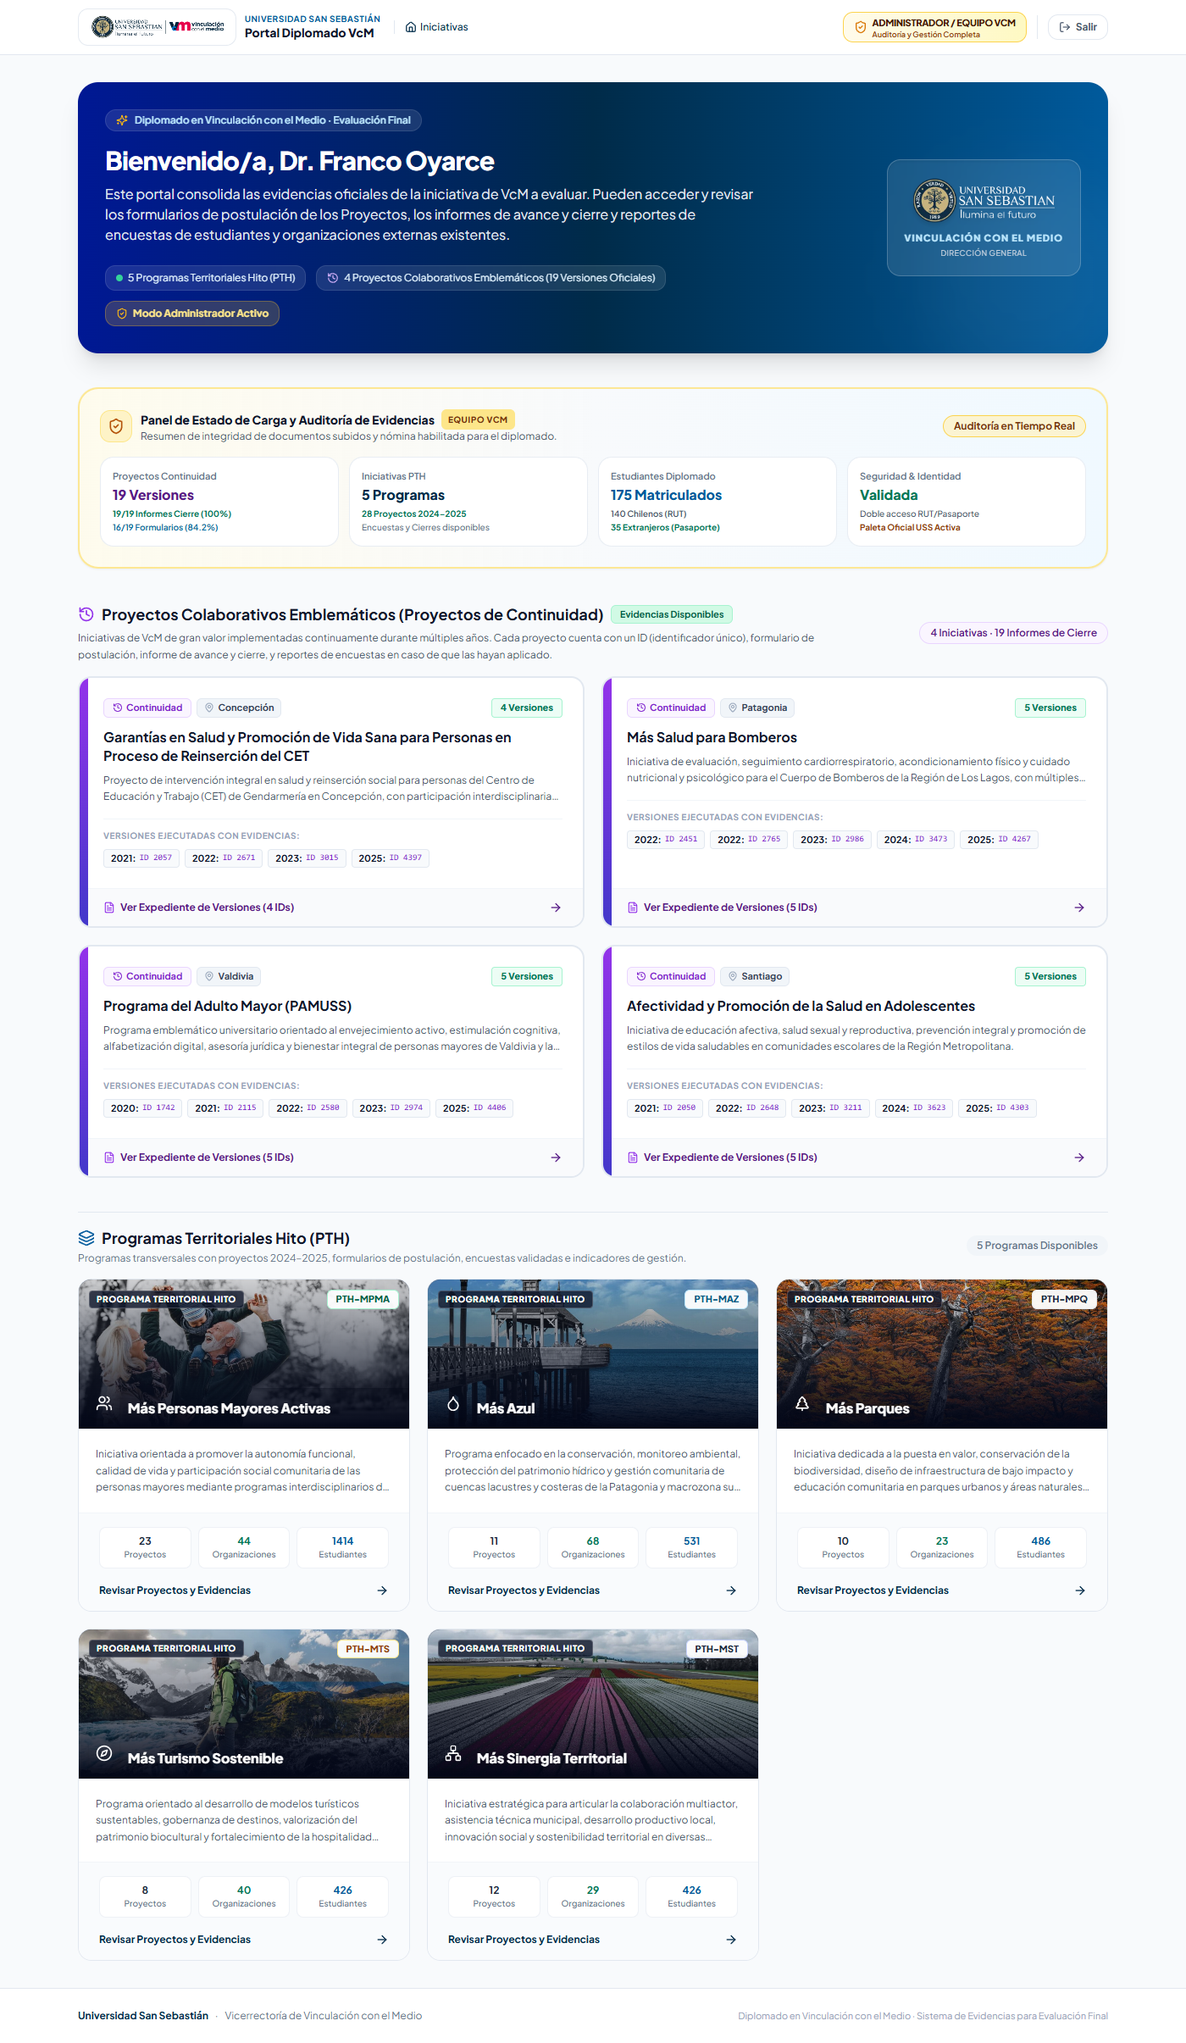
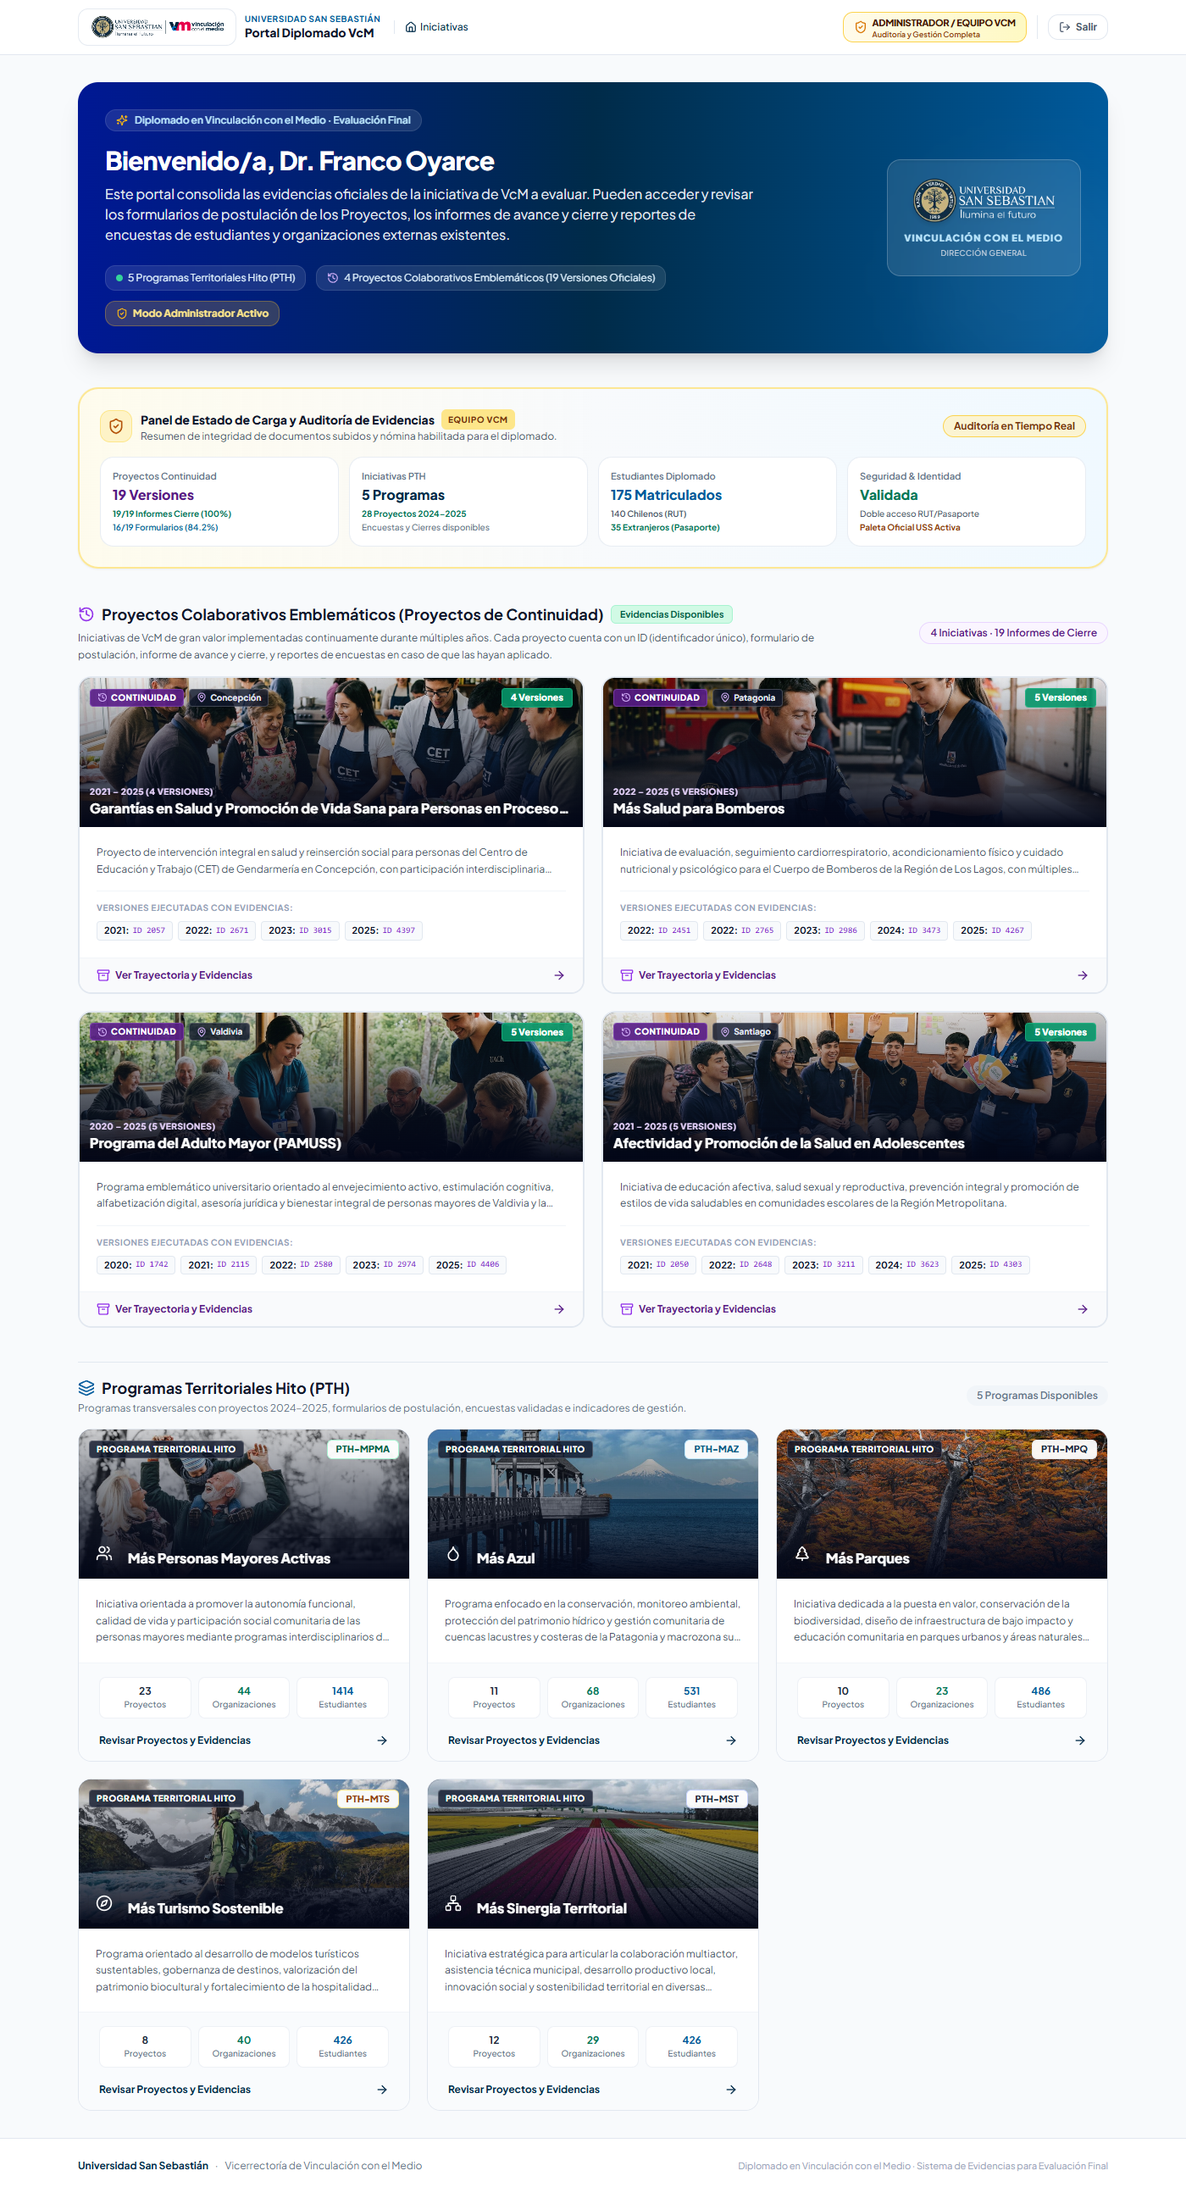
feat: imagenes de portada y cabecera visual para proyectos de continuidad y actualizacion de diseno

diff --git a/src/components/ContinuityProjectDetail.jsx b/src/components/ContinuityProjectDetail.jsx
@@ -26,6 +26,13 @@ import * as XLSX from 'xlsx';
 import JSZip from 'jszip';
 import { getAssetUrl } from '../utils/assetHelper';
 
+const continuityImageMap = {
+  'pc-garantias-salud-reinsercion': 'imagenes/continuidad/garantias-salud-reinsercion-cet.jpg',
+  'pc-mas-salud-bomberos': 'imagenes/continuidad/mas-salud-bomberos.jpg',
+  'pc-programa-adulto-mayor': 'imagenes/continuidad/programa-adulto-mayor-pamuss.jpg',
+  'pc-afectividad-salud-adolescentes': 'imagenes/continuidad/afectividad-salud-adolescentes.jpg'
+};
+
 export default function ContinuityProjectDetail({ project, onBack, onOpenDocument }) {
   const [sortOrder, setSortOrder] = useState('desc'); // 'desc' (más reciente primero) o 'asc'
   const [isZipping, setIsZipping] = useState(false);
@@ -198,51 +205,61 @@ export default function ContinuityProjectDetail({ project, onBack, onOpenDocumen
         </button>
       </div>
 
-      {/* Cabecera Principal del Proyecto de Continuidad */}
-      <div className="bg-white rounded-3xl p-6 sm:p-8 border-2 border-slate-200 shadow-sm relative overflow-hidden">
-        <div className="flex flex-col lg:flex-row lg:items-start justify-between gap-6">
+      {/* Cabecera Principal del Proyecto de Continuidad con Fotografía */}
+      <div className="rounded-3xl p-6 sm:p-8 border border-purple-900/60 shadow-lg relative overflow-hidden bg-slate-900 text-white">
+        {/* Fotografía de Fondo con Overlay */}
+        <div className="absolute inset-0 z-0">
+          <img 
+            src={getAssetUrl(continuityImageMap[project.id] || 'imagenes/pth/banner-pth.jpg')}
+            alt={project.nombre}
+            className="w-full h-full object-cover opacity-25"
+          />
+          <div className="absolute inset-0 bg-gradient-to-r from-slate-950 via-slate-900/95 to-slate-900/80" />
+        </div>
+
+        <div className="relative z-10 flex flex-col lg:flex-row lg:items-start justify-between gap-6">
           <div className="max-w-3xl">
             {/* Badges de clasificación */}
             <div className="flex flex-wrap items-center gap-2 mb-3">
-              <span className="text-xs font-bold px-2.5 py-1 rounded-md bg-purple-100 text-purple-800 border border-purple-200 flex items-center gap-1">
-                <History className="w-3.5 h-3.5" />
+              <span className="text-xs font-bold px-2.5 py-1 rounded-md bg-purple-900/90 text-purple-200 border border-purple-400/40 flex items-center gap-1 backdrop-blur-xs">
+                <History className="w-3.5 h-3.5 text-purple-300" />
                 Proyecto de Continuidad
               </span>
-              <span className="text-xs font-bold px-2.5 py-1 rounded-md bg-slate-100 text-slate-700 border border-slate-200 flex items-center gap-1">
-                <MapPin className="w-3.5 h-3.5 text-slate-500" />
+              <span className="text-xs font-bold px-2.5 py-1 rounded-md bg-white/10 text-slate-200 border border-white/20 flex items-center gap-1 backdrop-blur-xs">
+                <MapPin className="w-3.5 h-3.5 text-purple-300" />
                 {project.sede}
               </span>
-              <span className="text-xs font-semibold text-emerald-700 bg-emerald-50 px-2.5 py-1 rounded-md border border-emerald-200">
+              <span className="text-xs font-semibold text-emerald-300 bg-emerald-950/70 px-2.5 py-1 rounded-md border border-emerald-500/40 backdrop-blur-xs">
                 {project.totalVersiones} Versiones Ejecutadas
               </span>
-              <div className="hidden sm:inline-flex items-center gap-1.5 ml-2 px-2 py-0.5 rounded-lg bg-slate-50 border border-slate-200">
+              <div className="hidden sm:inline-flex items-center gap-1.5 ml-2 px-2.5 py-0.5 rounded-lg bg-white/10 backdrop-blur-xs border border-white/20">
                 <img 
                   src={getAssetUrl('logos/logo-vcm-uss.png')} 
                   alt="USS VcM" 
-                  className="h-4 w-auto object-contain" 
+                  className="h-4 w-auto object-contain brightness-0 invert" 
                 />
               </div>
             </div>
 
             {/* Título limpio sin sede */}
-            <h1 className="text-xl sm:text-2xl lg:text-3xl font-extrabold text-slate-900 tracking-tight leading-snug">
+            <h1 className="text-xl sm:text-2xl lg:text-3xl font-extrabold text-white tracking-tight leading-snug">
               {project.nombre}
             </h1>
 
-            <p className="mt-3 text-xs sm:text-sm text-slate-600 leading-relaxed">
+            <p className="mt-3 text-xs sm:text-sm text-slate-300 leading-relaxed">
               {project.descripcion}
             </p>
 
             {/* Carreras Participantes a lo largo de los años */}
-            <div className="mt-4 pt-4 border-t border-slate-100">
-              <span className="text-xs font-bold text-slate-500 block mb-2">
+            <div className="mt-4 pt-4 border-t border-white/15">
+              <span className="text-xs font-bold text-slate-400 block mb-2">
                 Carreras y Disciplinas Participantes en su Trayectoria:
               </span>
               <div className="flex flex-wrap items-center gap-1.5">
                 {project.carrerasParticipantes.map((carrera) => (
                   <span
                     key={carrera}
-                    className="bg-slate-100 text-slate-700 text-[11px] font-medium px-2.5 py-1 rounded-lg border border-slate-200/70"
+                    className="bg-white/10 text-white text-[11px] font-medium px-2.5 py-1 rounded-lg border border-white/20 backdrop-blur-xs"
                   >
                     {carrera}
                   </span>
@@ -255,7 +272,7 @@ export default function ContinuityProjectDetail({ project, onBack, onOpenDocumen
           <div className="flex flex-col sm:flex-row lg:flex-col gap-2.5 flex-shrink-0 w-full lg:w-auto">
             <button
               onClick={handleDownloadExcel}
-              className="w-full inline-flex items-center justify-center gap-2 px-4 py-2.5 rounded-xl bg-emerald-600 hover:bg-emerald-700 text-white font-bold text-xs transition shadow-sm cursor-pointer"
+              className="w-full inline-flex items-center justify-center gap-2 px-4 py-2.5 rounded-xl bg-emerald-600 hover:bg-emerald-500 text-white font-bold text-xs transition shadow-md cursor-pointer"
               title="Descargar historial consolidado en Microsoft Excel (.xlsx)"
             >
               <FileSpreadsheet className="w-4 h-4 text-emerald-200" />
@@ -265,18 +282,18 @@ export default function ContinuityProjectDetail({ project, onBack, onOpenDocumen
             <button
               onClick={handleDownloadAllZip}
               disabled={isZipping}
-              className="w-full inline-flex items-center justify-center gap-2 px-4 py-2.5 rounded-xl bg-uss-navy hover:bg-uss-blue text-white font-bold text-xs transition shadow-sm cursor-pointer disabled:opacity-70"
+              className="w-full inline-flex items-center justify-center gap-2 px-4 py-2.5 rounded-xl bg-white/15 hover:bg-white/25 text-white font-bold text-xs transition border border-white/20 shadow-md cursor-pointer disabled:opacity-70 backdrop-blur-xs"
               title="Descargar todos los informes y formularios en un archivo ZIP"
             >
               <Archive className="w-4 h-4 text-sky-300" />
               <span>{isZipping ? 'Comprimiendo Evidencias...' : 'Descargar Expediente (ZIP)'}</span>
             </button>
 
-            <div className="p-3 bg-purple-50 rounded-xl border border-purple-200 text-center">
-              <span className="text-[11px] font-semibold text-purple-800 block">
+            <div className="p-3 bg-white/10 rounded-xl border border-white/15 text-center backdrop-blur-xs">
+              <span className="text-[11px] font-semibold text-purple-300 block">
                 Trayectoria Documentada
               </span>
-              <span className="text-xs font-extrabold text-purple-900 block mt-0.5">
+              <span className="text-xs font-extrabold text-white block mt-0.5">
                 {project.periodoTrayectoria}
               </span>
             </div>
@@ -285,10 +302,10 @@ export default function ContinuityProjectDetail({ project, onBack, onOpenDocumen
 
         {/* Tarjetas de Métricas Consolidadas Oficiales */}
         {project.totalesConsolidados && (
-          <div className="mt-8 grid grid-cols-2 sm:grid-cols-5 gap-3 border-t border-slate-100 pt-6">
-            <div className="bg-slate-50 p-3.5 rounded-2xl border border-slate-200/70">
-              <span className="text-xs font-medium text-slate-500 block">Estudiantes Únicos</span>
-              <span className="text-xl font-extrabold text-uss-blue block mt-0.5">
+          <div className="relative z-10 mt-8 grid grid-cols-2 sm:grid-cols-5 gap-3 border-t border-white/15 pt-6">
+            <div className="bg-white/10 backdrop-blur-xs p-3.5 rounded-2xl border border-white/15">
+              <span className="text-xs font-medium text-slate-300 block">Estudiantes Únicos</span>
+              <span className="text-xl font-extrabold text-sky-300 block mt-0.5">
                 {project.totalesConsolidados.totalEstudiantesUnicos}
               </span>
               <span className="text-[10px] text-slate-400 block mt-0.5">
@@ -296,9 +313,9 @@ export default function ContinuityProjectDetail({ project, onBack, onOpenDocumen
               </span>
             </div>
 
-            <div className="bg-slate-50 p-3.5 rounded-2xl border border-slate-200/70">
-              <span className="text-xs font-medium text-slate-500 block">Organizaciones</span>
-              <span className="text-xl font-extrabold text-emerald-700 block mt-0.5">
+            <div className="bg-white/10 backdrop-blur-xs p-3.5 rounded-2xl border border-white/15">
+              <span className="text-xs font-medium text-slate-300 block">Organizaciones</span>
+              <span className="text-xl font-extrabold text-emerald-300 block mt-0.5">
                 {project.totalesConsolidados.totalOrganizaciones}
               </span>
               <span className="text-[10px] text-slate-400 block mt-0.5">
@@ -306,9 +323,9 @@ export default function ContinuityProjectDetail({ project, onBack, onOpenDocumen
               </span>
             </div>
 
-            <div className="bg-slate-50 p-3.5 rounded-2xl border border-slate-200/70">
-              <span className="text-xs font-medium text-slate-500 block">Comunas Vinculadas</span>
-              <span className="text-xl font-extrabold text-indigo-700 block mt-0.5">
+            <div className="bg-white/10 backdrop-blur-xs p-3.5 rounded-2xl border border-white/15">
+              <span className="text-xs font-medium text-slate-300 block">Comunas Vinculadas</span>
+              <span className="text-xl font-extrabold text-indigo-300 block mt-0.5">
                 {project.totalesConsolidados.totalComunas}
               </span>
               <span className="text-[10px] text-slate-400 block mt-0.5 truncate" title={project.comunasParticipantes?.join(', ')}>
@@ -316,9 +333,9 @@ export default function ContinuityProjectDetail({ project, onBack, onOpenDocumen
               </span>
             </div>
 
-            <div className="bg-slate-50 p-3.5 rounded-2xl border border-slate-200/70">
-              <span className="text-xs font-medium text-slate-500 block">Académicos USS</span>
-              <span className="text-xl font-extrabold text-amber-600 block mt-0.5">
+            <div className="bg-white/10 backdrop-blur-xs p-3.5 rounded-2xl border border-white/15">
+              <span className="text-xs font-medium text-slate-300 block">Académicos USS</span>
+              <span className="text-xl font-extrabold text-amber-300 block mt-0.5">
                 {project.totalesConsolidados.totalAcademicosDistintos}
               </span>
               <span className="text-[10px] text-slate-400 block mt-0.5">
@@ -326,9 +343,9 @@ export default function ContinuityProjectDetail({ project, onBack, onOpenDocumen
               </span>
             </div>
 
-            <div className="bg-slate-50 p-3.5 rounded-2xl border border-slate-200/70 col-span-2 sm:col-span-1">
-              <span className="text-xs font-medium text-slate-500 block">PTH Vinculado</span>
-              <span className="text-xs font-extrabold text-purple-900 block mt-1 line-clamp-2">
+            <div className="bg-white/10 backdrop-blur-xs p-3.5 rounded-2xl border border-white/15 col-span-2 sm:col-span-1">
+              <span className="text-xs font-medium text-slate-300 block">PTH Vinculado</span>
+              <span className="text-xs font-extrabold text-purple-200 block mt-1 line-clamp-2">
                 {project.totalesConsolidados.pthAsociado}
               </span>
             </div>

diff --git a/src/components/PTHSelector.jsx b/src/components/PTHSelector.jsx
@@ -38,6 +38,13 @@ const pthImageMap = {
   'pth-mas-sinergia-territorial': 'imagenes/pth/mas-sinergia.jpg',
 };
 
+const continuityImageMap = {
+  'pc-garantias-salud-reinsercion': 'imagenes/continuidad/garantias-salud-reinsercion-cet.jpg',
+  'pc-mas-salud-bomberos': 'imagenes/continuidad/mas-salud-bomberos.jpg',
+  'pc-programa-adulto-mayor': 'imagenes/continuidad/programa-adulto-mayor-pamuss.jpg',
+  'pc-afectividad-salud-adolescentes': 'imagenes/continuidad/afectividad-salud-adolescentes.jpg'
+};
+
 export default function PTHSelector({ 
   iniciativas, 
   proyectosContinuidad = [], 
@@ -197,35 +204,48 @@ export default function PTHSelector({
             <div
               key={proj.id}
               onClick={() => onSelectContinuityProject && onSelectContinuityProject(proj)}
-              className="group bg-white rounded-2xl border-2 border-slate-200 hover:border-purple-600 shadow-xs hover:shadow-xl transition-all duration-300 flex flex-col justify-between overflow-hidden cursor-pointer transform hover:-translate-y-1 relative"
+              className="group bg-white rounded-2xl border-2 border-slate-200 hover:border-purple-600 shadow-xs hover:shadow-xl transition-all duration-300 flex flex-col justify-between overflow-hidden cursor-pointer transform hover:-translate-y-1"
             >
-              {/* Barra lateral de acento púrpura */}
-              <div className="absolute top-0 left-0 bottom-0 w-2.5 bg-gradient-to-b from-purple-600 to-indigo-700" />
-
-              <div className="p-6 pl-7">
-                {/* Metadatos superiores */}
-                <div className="flex items-start justify-between gap-3 mb-3">
-                  <div className="flex flex-wrap items-center gap-1.5">
-                    <span className="text-[11px] font-bold px-2.5 py-0.5 rounded-md bg-purple-50 text-purple-700 border border-purple-200 flex items-center gap-1">
-                      <History className="w-3 h-3" />
+              {/* Cabecera Visual con Imagen del Proyecto */}
+              <div className="relative h-44 w-full overflow-hidden bg-slate-900">
+                <img 
+                  src={getAssetUrl(continuityImageMap[proj.id] || 'imagenes/pth/banner-pth.jpg')}
+                  alt={proj.nombre}
+                  className="w-full h-full object-cover transform group-hover:scale-105 transition-transform duration-500 opacity-90"
+                  loading="lazy"
+                />
+                <div className="absolute inset-0 bg-gradient-to-t from-slate-950 via-slate-900/50 to-transparent" />
+                
+                {/* Badges superiores sobre la imagen */}
+                <div className="absolute top-3 left-3 right-3 flex items-center justify-between">
+                  <div className="flex items-center gap-1.5">
+                    <span className="text-[10px] font-black uppercase tracking-wider px-2 py-0.5 rounded bg-purple-900/90 text-white backdrop-blur-xs border border-purple-400/30 flex items-center gap-1">
+                      <History className="w-3 h-3 text-purple-300" />
                       Continuidad
                     </span>
-                    <span className="text-[11px] font-bold px-2 py-0.5 rounded-md bg-slate-100 text-slate-700 border border-slate-200 flex items-center gap-1">
-                      <MapPin className="w-3 h-3 text-slate-400" />
+                    <span className="text-[10px] font-bold px-2 py-0.5 rounded bg-slate-900/80 text-slate-200 backdrop-blur-xs border border-white/20 flex items-center gap-1">
+                      <MapPin className="w-3 h-3 text-purple-300" />
                       {proj.sede}
                     </span>
                   </div>
-                  <span className="text-[11px] font-extrabold text-emerald-700 bg-emerald-50 px-2.5 py-0.5 rounded border border-emerald-200">
+                  <span className="text-[11px] font-extrabold text-white bg-emerald-600/90 px-2.5 py-0.5 rounded border border-emerald-400/40 shadow-xs backdrop-blur-xs">
                     {proj.totalVersiones} Versiones
                   </span>
                 </div>
 
-                {/* Título limpio sin sede */}
-                <h3 className="text-base font-bold text-slate-900 group-hover:text-purple-700 transition-colors leading-snug">
-                  {proj.nombre}
-                </h3>
+                {/* Título sobre la imagen */}
+                <div className="absolute bottom-3 left-3 right-3">
+                  <span className="text-[10px] font-bold text-purple-200 uppercase tracking-wider block mb-0.5 drop-shadow-sm">
+                    {proj.periodoTrayectoria}
+                  </span>
+                  <h3 className="text-base font-extrabold text-white leading-tight drop-shadow-md group-hover:text-purple-200 transition-colors line-clamp-1">
+                    {proj.nombre}
+                  </h3>
+                </div>
+              </div>
 
-                <p className="text-xs text-slate-600 mt-2 line-clamp-2 leading-relaxed">
+              <div className="p-5 flex-1 flex flex-col justify-between">
+                <p className="text-xs text-slate-600 line-clamp-2 leading-relaxed">
                   {proj.descripcion}
                 </p>
 
@@ -249,10 +269,10 @@ export default function PTHSelector({
               </div>
 
               {/* Footer de la tarjeta */}
-              <div className="bg-slate-50/90 px-6 pl-7 py-3.5 border-t border-slate-100 flex items-center justify-between text-xs font-bold text-purple-900 group-hover:text-purple-700">
+              <div className="bg-slate-50/90 px-5 py-3 border-t border-slate-100 flex items-center justify-between text-xs font-bold text-purple-900 group-hover:text-purple-700">
                 <span className="flex items-center gap-1.5">
-                  <FileText className="w-3.5 h-3.5 text-purple-600" />
-                  <span>Ver Expediente de Versiones ({proj.totalVersiones} IDs)</span>
+                  <Archive className="w-4 h-4 text-purple-600" />
+                  <span>Ver Trayectoria y Evidencias</span>
                 </span>
                 <ArrowRight className="w-4 h-4 transform group-hover:translate-x-1 transition-transform" />
               </div>
